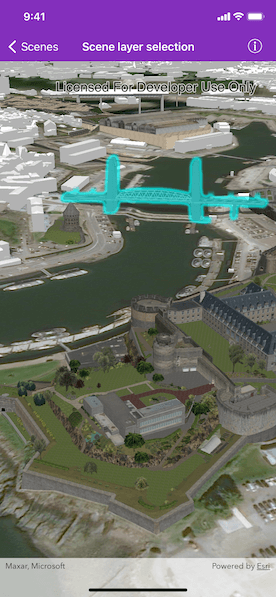
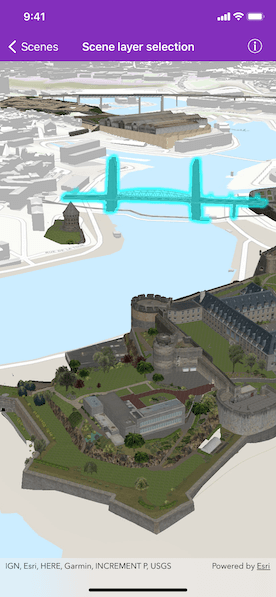
Update scene layer selection sample.

diff --git a/arcgis-ios-sdk-samples/Scenes/Scene layer selection/SceneLayerSelectionViewController.swift b/arcgis-ios-sdk-samples/Scenes/Scene layer selection/SceneLayerSelectionViewController.swift
@@ -25,7 +25,7 @@ class SceneLayerSelectionViewController: UIViewController {
     let buildingsLayer: AGSArcGISSceneLayer
     
     required init?(coder: NSCoder) {
-        scene = AGSScene(basemap: .imagery())
+        scene = AGSScene(basemap: .topographic())
         
         // Create a surface set it as the base surface of the scene.
         let surface = AGSSurface()

diff --git a/arcgis-ios-sdk-samples/Scenes/Scene layer selection/README.md b/arcgis-ios-sdk-samples/Scenes/Scene layer selection/README.md
@@ -29,8 +29,8 @@ Tap on a building in the scene layer to select it. Deselect buildings by tapping
 
 ## About the data
 
-This sample shows a [Berlin, Germany Scene](https://www.arcgis.com/home/item.html?id=31874da8a16d45bfbc1273422f772270) hosted on ArcGIS Online.
+This sample shows a [Brest, France Scene](https://tiles.arcgis.com/tiles/P3ePLMYs2RVChkJx/arcgis/rest/services/Buildings_Brest/SceneServer/layers/0) hosted on ArcGIS Online.
 
 ## Tags
 
-3D, Berlin, buildings, identify, model, query, search, select
+3D, buildings, identify, model, query, search, select
